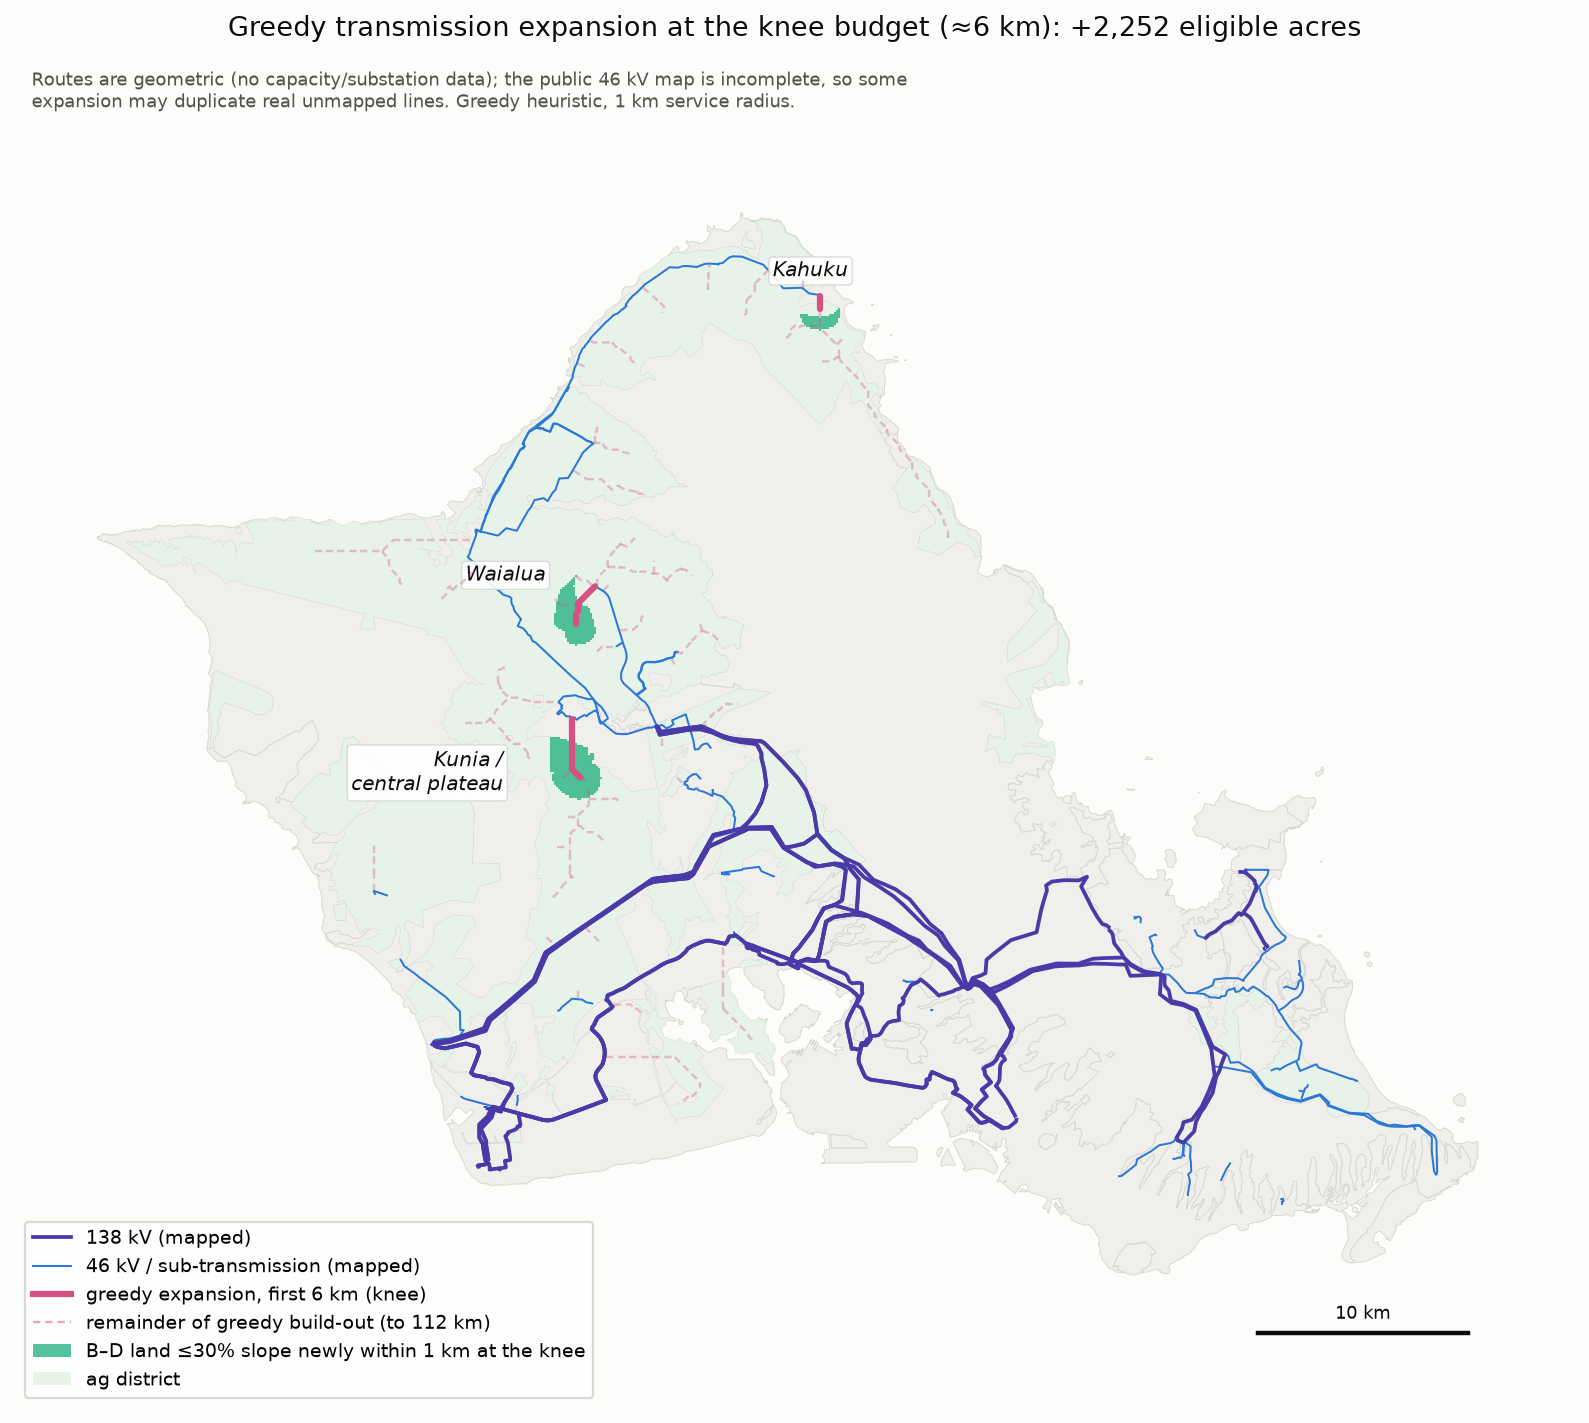
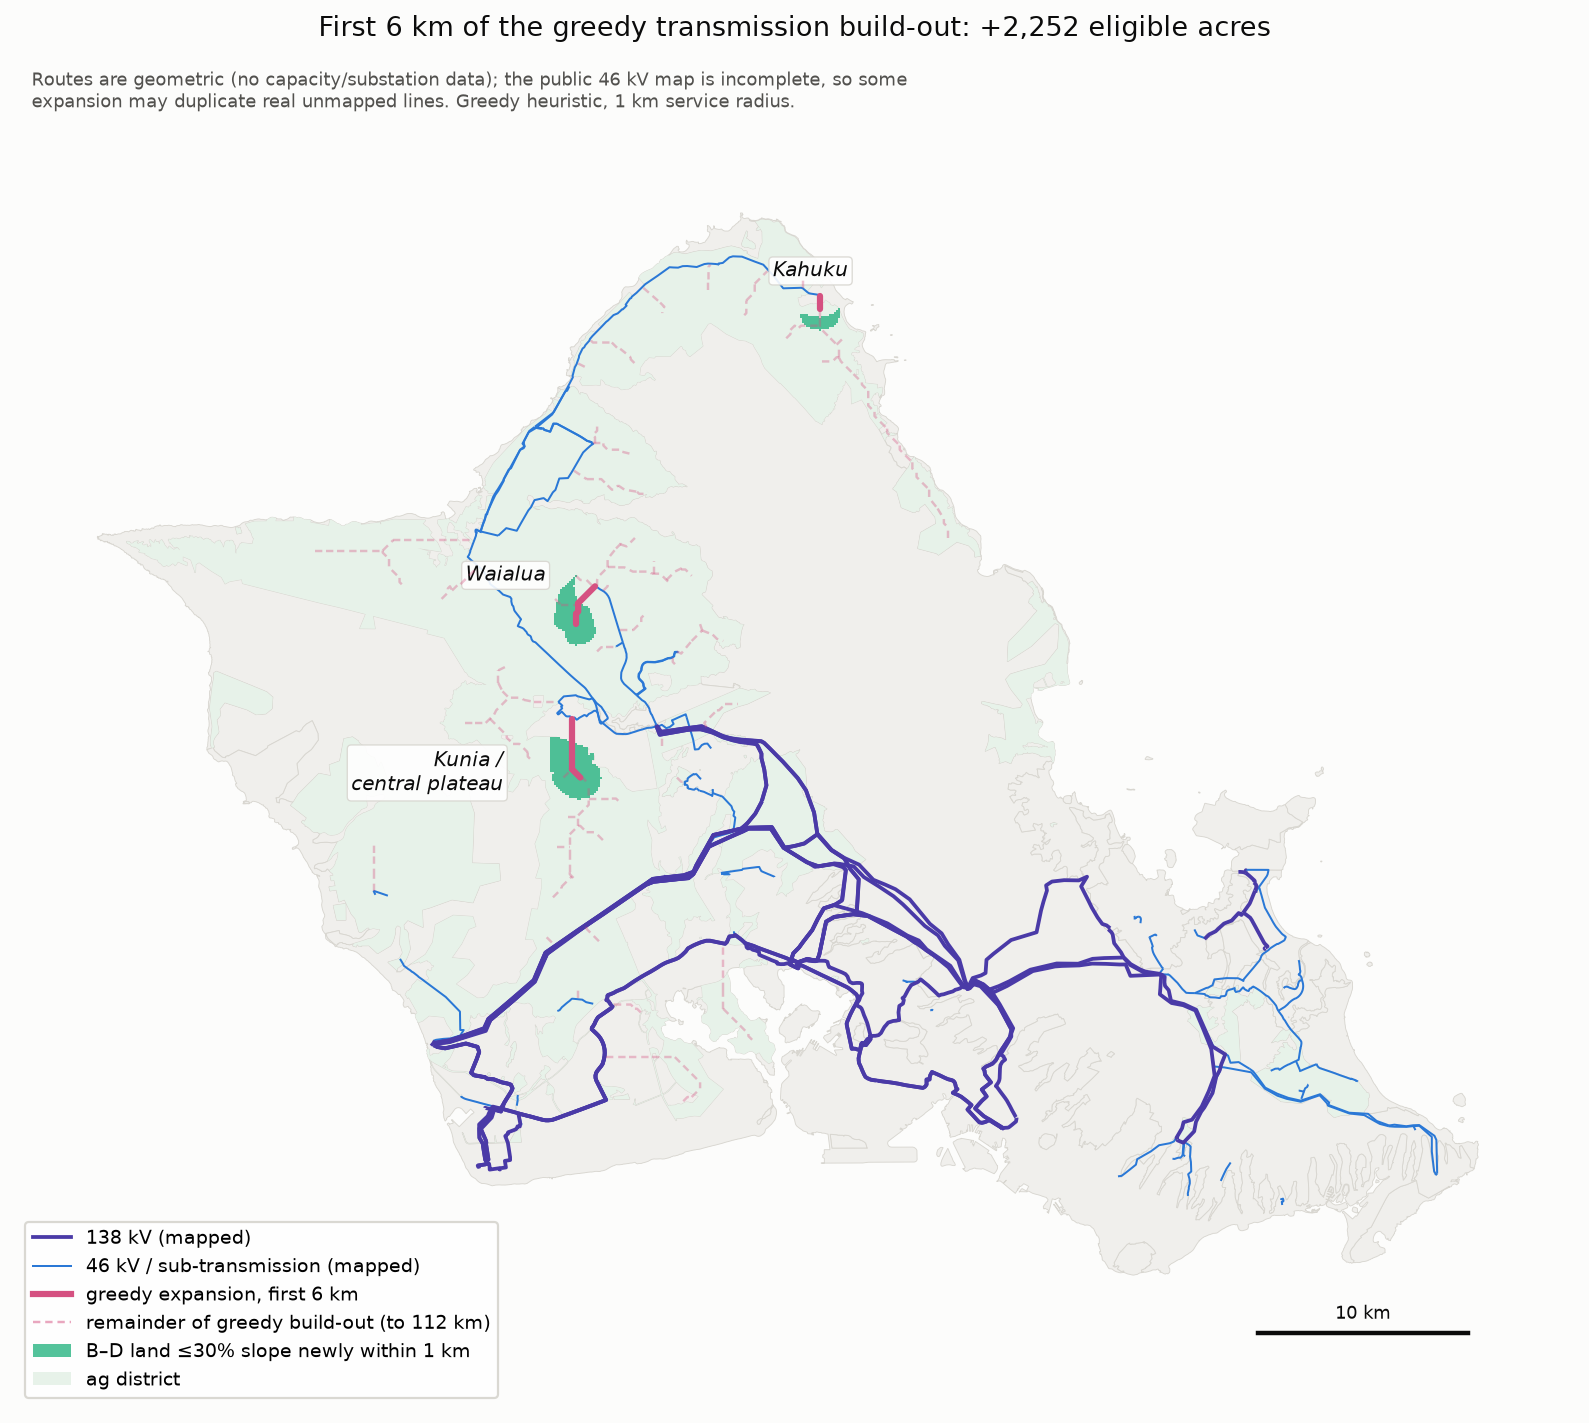
Remove knee framing from expansion analysis
Curve and map figures redrawn without knee marker/labels; text
describes gradual diminishing returns; map reframed as first ~6 km
of build-out; program tranche renamed to first spurs.

Claude-Session: https://claude.ai/code/session_01XZWrBYW7S6F1sasvKVeE36

Changed region(s): [[0.1542, 0.0, 0.8634, 0.0309], [0.3084, 0.9276, 0.37, 0.9585], [0.2467, 0.8967, 0.2775, 0.9276]]

diff --git a/paper/land-restrictions-paper.html b/paper/land-restrictions-paper.html
@@ -279,13 +279,13 @@
   <h3>How much land a given length of new line can reach</h3>
   <p>A budget-constrained version of the same question: for a total length L of new line, placed optimally (greedy
   heuristic, branching from the existing mapped network), how much class B–D land at ≤30% slope comes within 1 km of a
-  line? Figure 5 traces the full curve; Figure 6 maps the build-out at the knee. Class E is excluded here along with
+  line? Figure 5 traces the full curve; Figure 6 maps the first kilometers of the build-out. Class E is excluded here along with
   class A; routes are geometric, so the curve is an upper bound on what any real routing would achieve at a given
   length, and the under-mapped 46 kV network means baseline coverage is understated.</p>
   <ul>
     <li>Baseline (existing mapped network): 16,328 of 40,870 eligible acres (40%) are within 1 km.</li>
-    <li>The marginal payoff is highest in the first ~11 km (≈400–480 acres per km) and declines steadily after;
-    the knee sits near 6 km. Ten kilometers of new line raises coverage to 20,185 acres (+3,857); 25 km to 24,195;
+    <li>The marginal payoff is highest in the first ~11 km (≈400–480 acres per km) and declines steadily after that —
+    diminishing returns are gradual rather than sharp. Ten kilometers of new line raises coverage to 20,185 acres (+3,857); 25 km to 24,195;
     50 km to 29,481; 100 km to 36,103 — 88% of everything eligible.</li>
     <li>The first 6 km are three short spurs, all extensions of existing corridors: ~2.2 km mauka from the Waialua
     46 kV loop (the same area as corridor candidate C03), ~2.9 km down the Kunia/central-plateau spine south of
@@ -296,15 +296,14 @@
   <figure>
     <div class="figcard"><img src="__F7__" alt="Curve of eligible acres within 1 km of a line versus km of new line built"></div>
     <figcaption><b>Figure 5.</b> Coverage of B–D ag-district land (≤30% and ≤15% slope) within 1 km of a line, as a
-    function of km of new line placed by the greedy heuristic. Marked points at L = 10/25/50/75/100 km; the knee
-    (≈6 km) is where smoothed marginal gain peaks (434 ac/km). Vertical lines mark approximate cumulative cost at
+    function of km of new line placed by the greedy heuristic. Marked points at L = 10/25/50/75/100 km. Vertical lines mark approximate cumulative cost at
     ~$2.5M/km (138 kV new build, Hawaiʻi-adjusted central value from Table 5; range $1.5–4M/km) — wire only,
     excluding substation and interconnection costs.</figcaption>
   </figure>
 
   <figure>
-    <div class="figcard"><img src="__F8__" alt="Map of the greedy expansion at the knee budget with newly covered land shaded"></div>
-    <figcaption><b>Figure 6.</b> The build-out at the knee budget (≈6 km): three short spurs at Waialua, Kunia, and
+    <div class="figcard"><img src="__F8__" alt="Map of the first kilometers of the greedy expansion with newly covered land shaded"></div>
+    <figcaption><b>Figure 6.</b> The first ≈6 km of the greedy build-out: three short spurs at Waialua, Kunia, and
     Kahuku (solid), the remainder of the greedy build-out to 112 km (dashed), and the land newly served (shaded).</figcaption>
   </figure>
 
@@ -313,7 +312,7 @@
   line cost per km divided by transfer capacity, so it varies an order of magnitude with voltage class. Table&nbsp;5
   gives mainland benchmarks (MISO transmission cost estimation guides, 2024$) with a Hawaiʻi construction multiplier
   of 1.5–2.5× applied <span class="tag tU">U — HECO's actual unit costs are confidential</span>. Substation work adds
-  fixed costs of several million dollars per connection point, which for spurs as short as the knee build can exceed
+  fixed costs of several million dollars per connection point, which for spurs this short can exceed
   the wire itself.</p>
 
   <div class="tablewrap">
@@ -346,7 +345,7 @@
     <tr><th>Tranche</th><th class="num">Budget</th><th>What it buys</th><th>Rationale from this paper's screens</th></tr>
     <tr><td>1. Rebuild the ag-belt sub-transmission at 138 kV in existing ROWs</td><td class="num">≈ $150M</td><td>50–70 km: Waialua–Wahiawā–Kunia loop + Kahuku segment</td><td>The 1–3 km ring holds ≈24,000 buildable non-A acres across 28 owners; in-ROW work minimizes permitting exposure; 138 kV moves 3–5× the power of 46 kV for modestly more cost</td></tr>
     <tr><td>2. Collector substations with pre-built interconnection bays</td><td class="num">≈ $120M</td><td>5–6 stations: Waialua, Kunia/central plateau, Kahuku, Waiawa/Waipiʻo, ʻEwa edge</td><td>Placed by ownership cluster (Waialua alone reaches Dole, KS, an ag-CPR, and State land); published headroom converts private interconnection information into open bidding opportunities — the cheapest $/MW-of-competition in the program</td></tr>
-    <tr><td>3. The knee spurs, built at 138 kV</td><td class="num">≈ $60–80M</td><td>20–25 km: Waialua mauka, Kunia spine, Kahuku, then toward Waiawa</td><td>The optimization's highest-payoff segments (≈400–480 acres/km)</td></tr>
+    <tr><td>3. The first spurs, built at 138 kV</td><td class="num">≈ $60–80M</td><td>20–25 km: Waialua mauka, Kunia spine, Kahuku, then toward Waiawa</td><td>The optimization's highest-payoff segments (≈400–480 acres/km)</td></tr>
     <tr><td>4. Backbone delivery reserve</td><td class="num">≈ $120M</td><td>Second circuit / rebuild on the central 138 kV path, or state cost-share into HECO's Integrated Grid Planning</td><td>Collected power must reach the Honolulu load center; backbone headroom is confidential and certainly not sized for 5–6 GW — this tranche could absorb far more, which argues for mandated public hosting-capacity disclosure at transmission level</td></tr>
     <tr><td>5. Contingency, studies, queue support</td><td class="num">≈ $30M</td><td>Interconnection studies, hosting-capacity mapping</td><td>Study queues are a real bottleneck priced into bids</td></tr>
   </table>

diff --git a/analysis/transmission_expansion.py b/analysis/transmission_expansion.py
@@ -483,18 +483,18 @@ def fig_map(curve, segs, knee, elig30, net0, tr100):
         Line2D([], [], color=C_46, lw=0.9,
                label="46 kV / sub-transmission (mapped)"),
         Line2D([], [], color=C_EXP, lw=2.8,
-               label=f"greedy expansion, first {knee_km:.0f} km (knee)"),
+               label=f"greedy expansion, first {knee_km:.0f} km"),
         Line2D([], [], color=C_EXP, lw=1.1, alpha=0.5, ls=(0, (3, 2)),
                label=f"remainder of greedy build-out (to "
                      f"{curve.cum_km.iloc[-1]:.0f} km)"),
         Patch(fc=C_NEW, alpha=0.75,
-              label="B–D land ≤30% slope newly within 1 km at the knee"),
+              label="B–D land ≤30% slope newly within 1 km"),
         Patch(fc="#e7f2e9", label="ag district"),
     ]
     ax.legend(handles=handles, loc="lower left", fontsize=8.5, frameon=True,
               framealpha=0.95, edgecolor="#d8d6d0")
-    ax.set_title(f"Greedy transmission expansion at the knee budget "
-                 f"(≈{knee_km:.0f} km): +"
+    ax.set_title(f"First {knee_km:.0f} km of the greedy transmission build-out"
+                 f": +"
                  f"{knee_ac - curve.cum_acres_le30.iloc[0]:,.0f} eligible "
                  f"acres", fontsize=12, color=INK)
     ax.text(0.01, 0.985,

diff --git a/analysis/make_expansion_fig_cost.py b/analysis/make_expansion_fig_cost.py
@@ -62,13 +62,6 @@ for L in [10, 25, 50, 75, 100]:
     ax.annotate(f"L={L}\n{y:,.0f} ac", (L, y), xytext=(6, -34),
                 textcoords="offset points", fontsize=8.8, color=INK2)
 
-# knee
-kx = 5.7; ky = np.interp(kx, d["cum_km"], d["cum_acres_le30"])
-ax.plot([kx], [ky], marker="D", ms=8, color=PINK, zorder=6)
-ax.annotate("knee ≈ 6 km (≈$15M): 18,580 ac\npeak smoothed marginal 434 ac/km",
-            (kx, ky), xytext=(-14, 118), textcoords="offset points",
-            fontsize=9.6, color=PINK,
-            arrowprops=dict(arrowstyle="-", color=PINK, lw=1.1))
 
 ax.set_xlim(-2, 132)
 ax.set_xlabel("km of new line (greedy build-out)", fontsize=10.5, color=INK2)